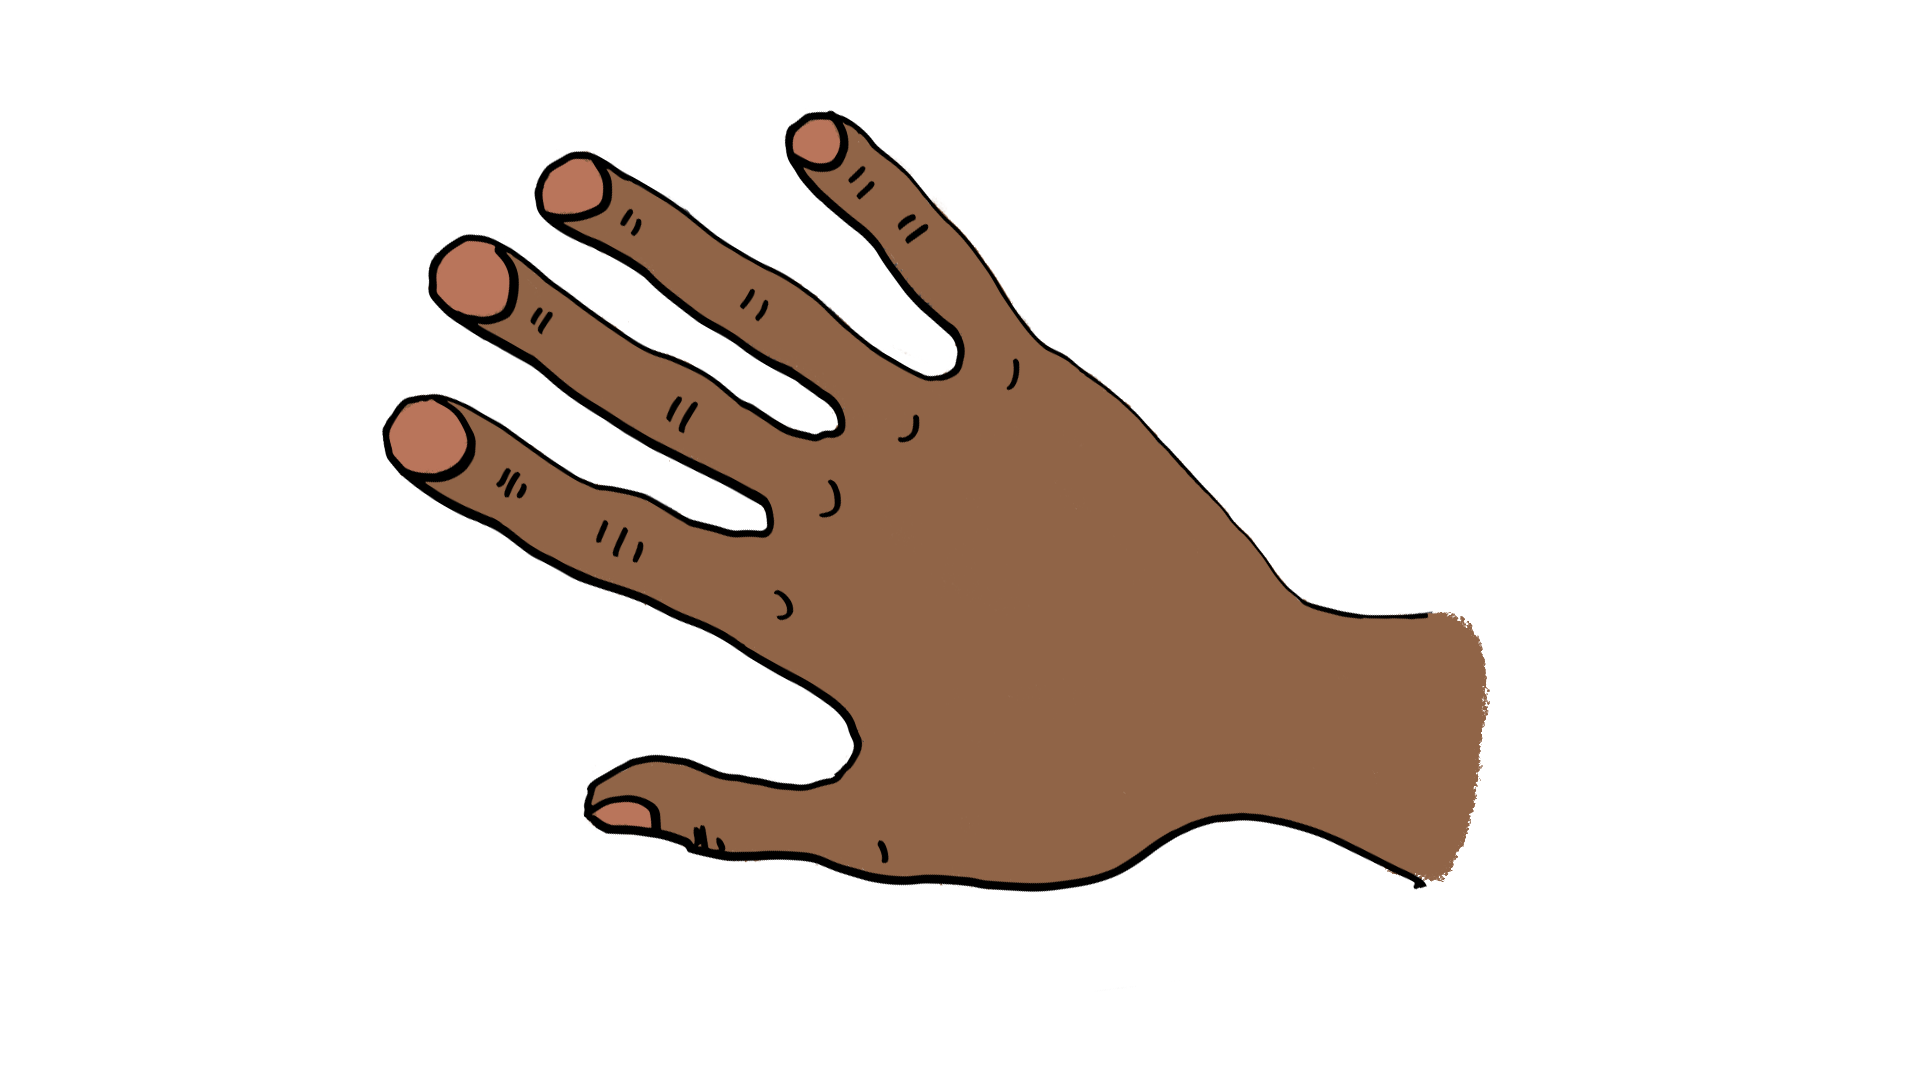
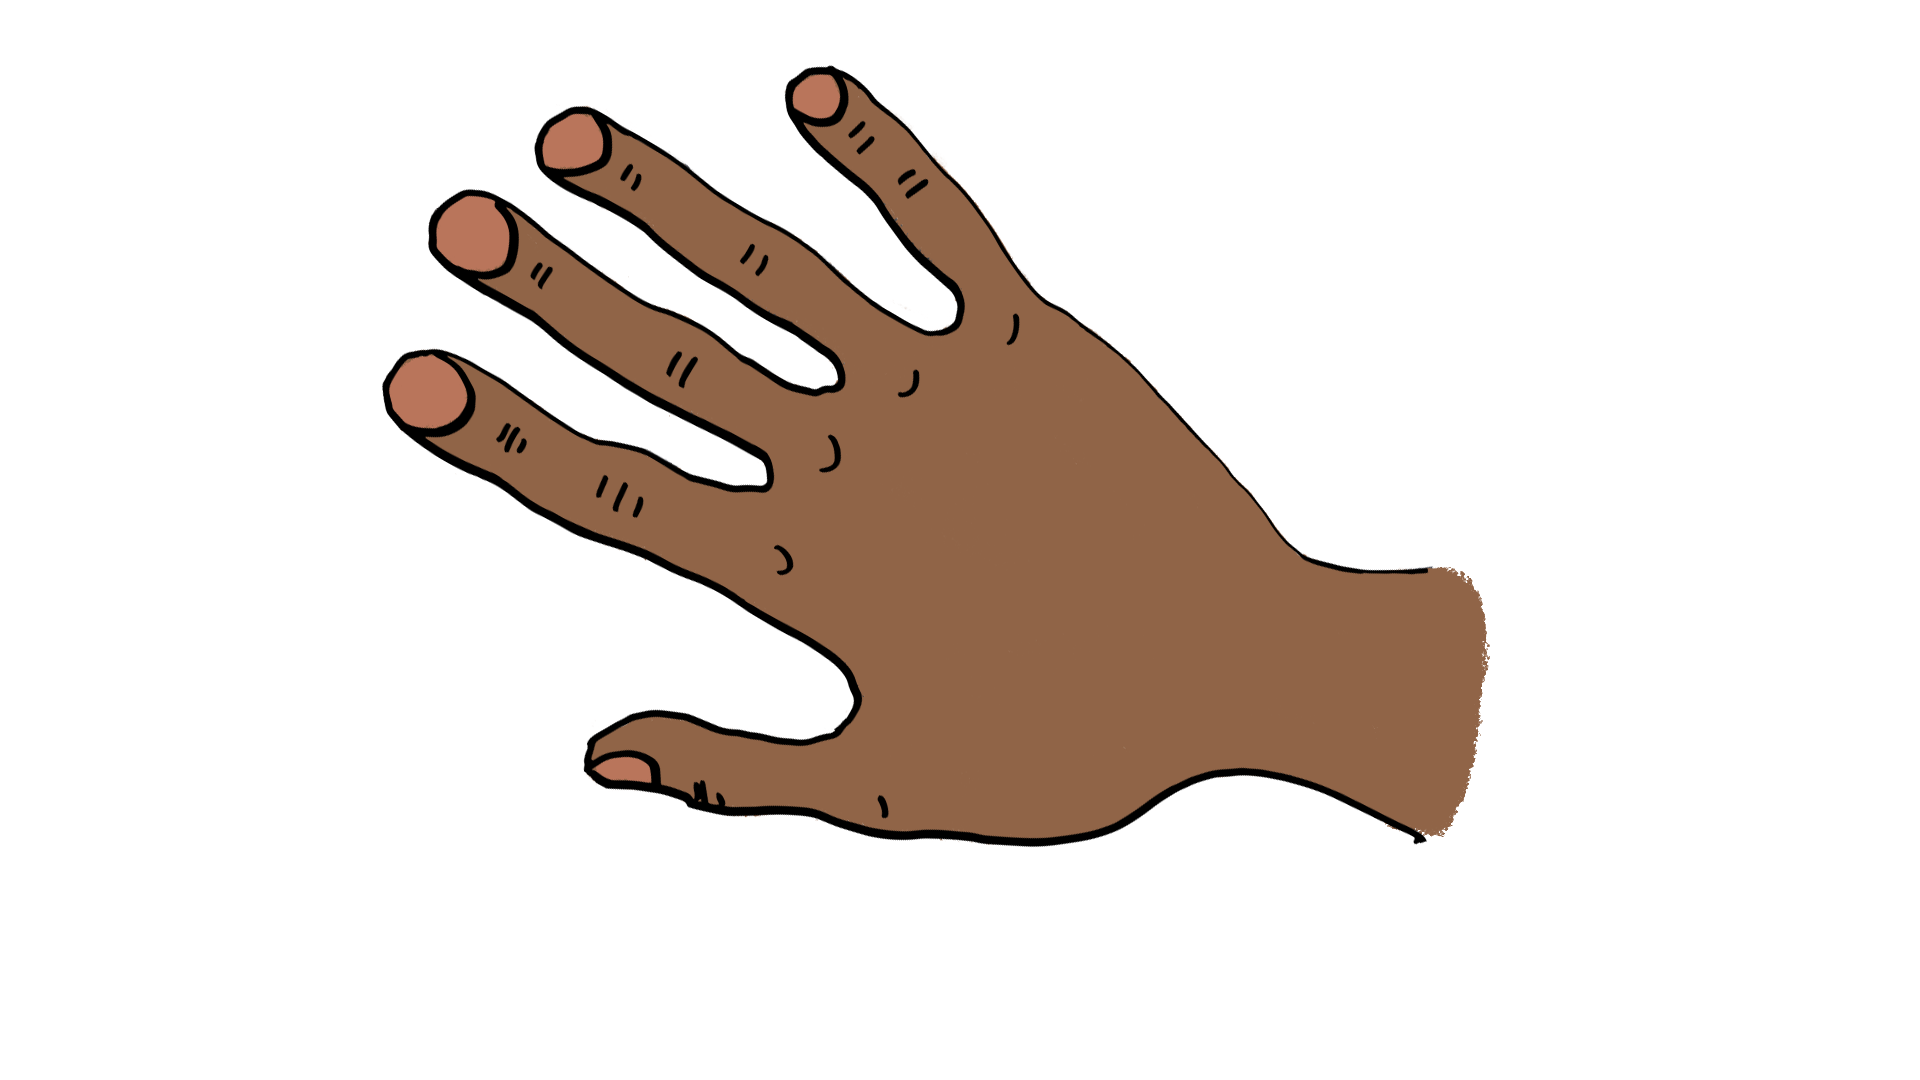
Added stock photos and paparazzi sounds

Changed region(s): [[0.1875, 0.0611, 0.7812, 0.825], [0.75, 0.6417, 0.7812, 0.6722]]

diff --git a/js/salon.js b/js/salon.js
@@ -1,13 +1,12 @@
 var salonbg, hand, paint, brush, brushColour, painting, paintTimeElapsed, lastX, lastY;
 var bottles = [];
+var finishButton, finished, stockPhoto, endTimeElapsed;
 
 function initSalon()
 {
 	salonbg = new createjs.Bitmap(queue.getResult("main_background"));
 
 	hand = new createjs.Bitmap(queue.getResult("hand1"));
-	hand.x = 150;
-	hand.y = -50;
 
 	paint = new createjs.Shape();
 	paint.mouseEnabled = false;
@@ -40,12 +39,19 @@ function initSalon()
 		});
 	}
 
+	finishButton = new createjs.Bitmap(queue.getResult("finish-button"));
+	finishButton.x = ACTUAL_WIDTH - 400;
+	finishButton.y = ACTUAL_HEIGHT - 220;
+	finishButton.on("click", function(evt) { finishNails(); });
+
 	bottomBox = new createjs.Shape();
 	bottomBox.graphics.beginFill("#000000").drawRect(0, ACTUAL_HEIGHT, ACTUAL_WIDTH, 400);
 
 	hand.on("mousedown", function(evt) { painting = true; });
 	hand.on("pressmove", function(evt) { painting = true; });
 	stage.on("stagemouseup", function(evt) { painting = false; });
+
+	stockPhoto = new createjs.Bitmap(queue.getResult("nails1"));
 }
 
 function addBottle(c)
@@ -64,6 +70,9 @@ function enterSalon()
 
 	stage.addChild(salonbg);
 	stage.addChild(hand);
+	stage.addChild(finishButton);
+
+	paint = new createjs.Shape();
 	stage.addChild(paint);
 
 	for (var i = 0; i < bottles.length; i++)
@@ -77,16 +86,43 @@ function enterSalon()
 	brushColour = "red";
 	painting = false;
 
+	finished = false;
+
 	bgm = createjs.Sound.play("salon", { loop: -1 });
 }
 
 function updateSalon(timeSinceLastTick)
 {
+	if (finished)
+	{
+		endTimeElapsed += timeSinceLastTick;
+
+		if (endTimeElapsed < 1000)
+		{
+			stockPhoto.alpha = endTimeElapsed/1000;
+		}
+		else if (endTimeElapsed < 10000)
+		{
+			stockPhoto.alpha = 1;
+		}
+		else if (endTimeElapsed < 11000)
+		{
+			if (stage.getChildIndex(mainmenubg) == -1) stage.addChild(mainmenubg);
+			mainmenubg.alpha = (endTimeElapsed-10000)/1000;
+		}
+		else
+		{
+			stage.removeAllChildren();
+			showScreen(SCREEN_MAIN_MENU);
+		}
+		return;
+	}
+
 	var newPos = stage.globalToLocal(stage.mouseX, stage.mouseY);
 	brush.x = newPos.x;
 	brush.y = newPos.y;
 
-	if (!hand.hitTest(brush.x-hand.x, brush.y-hand.y)) painting = false;
+	if (!hand.hitTest(brush.x, brush.y)) painting = false;
 
 	if (painting)
 	{
@@ -153,4 +189,21 @@ function getNailPolishColour()
 	if (brushColour == "indigo") colour = "#346aa7";
 	if (brushColour == "violet") colour = "#8689b9";
 	return colour;
+}
+
+function finishNails()
+{
+	bgm.stop();
+	bgm = null;
+	createjs.Sound.play("paparazzi");
+
+	stage.removeChild(brush);
+
+	var n = Math.ceil(Math.random()*5);
+	stockPhoto.image = queue.getResult("nails"+n);
+	stockPhoto.alpha = 0;
+	stage.addChild(stockPhoto)
+
+	endTimeElapsed = 0;
+	finished = true;
 }
